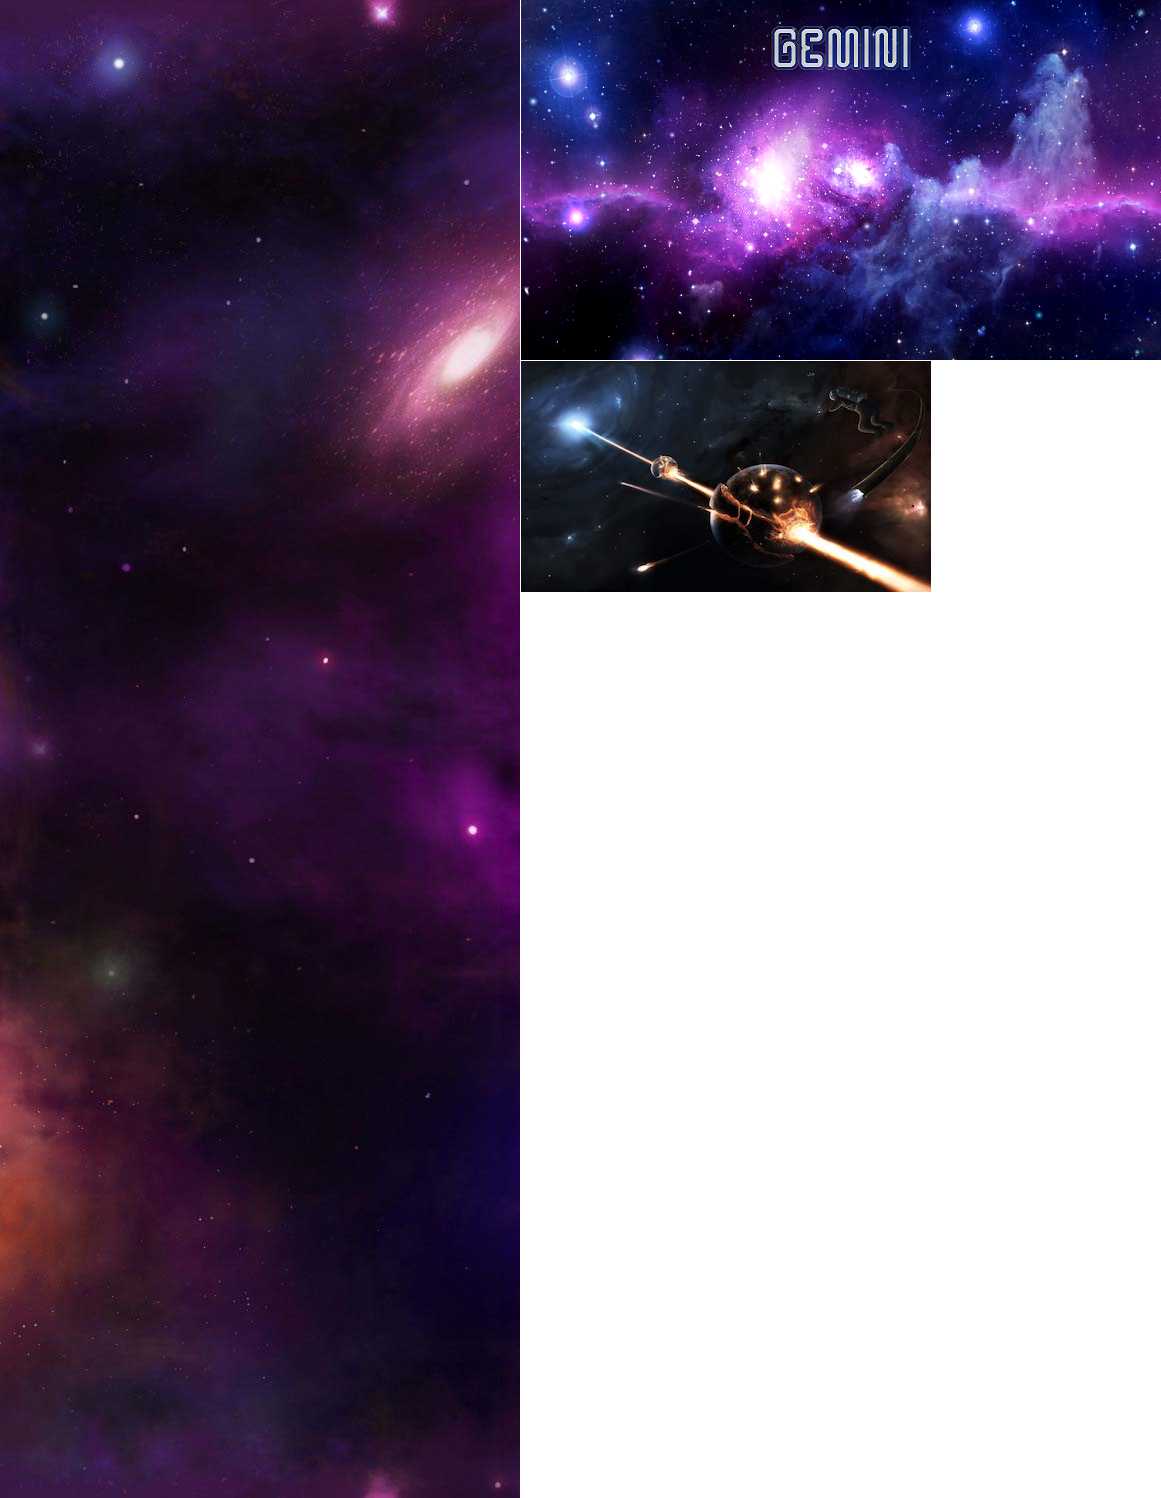
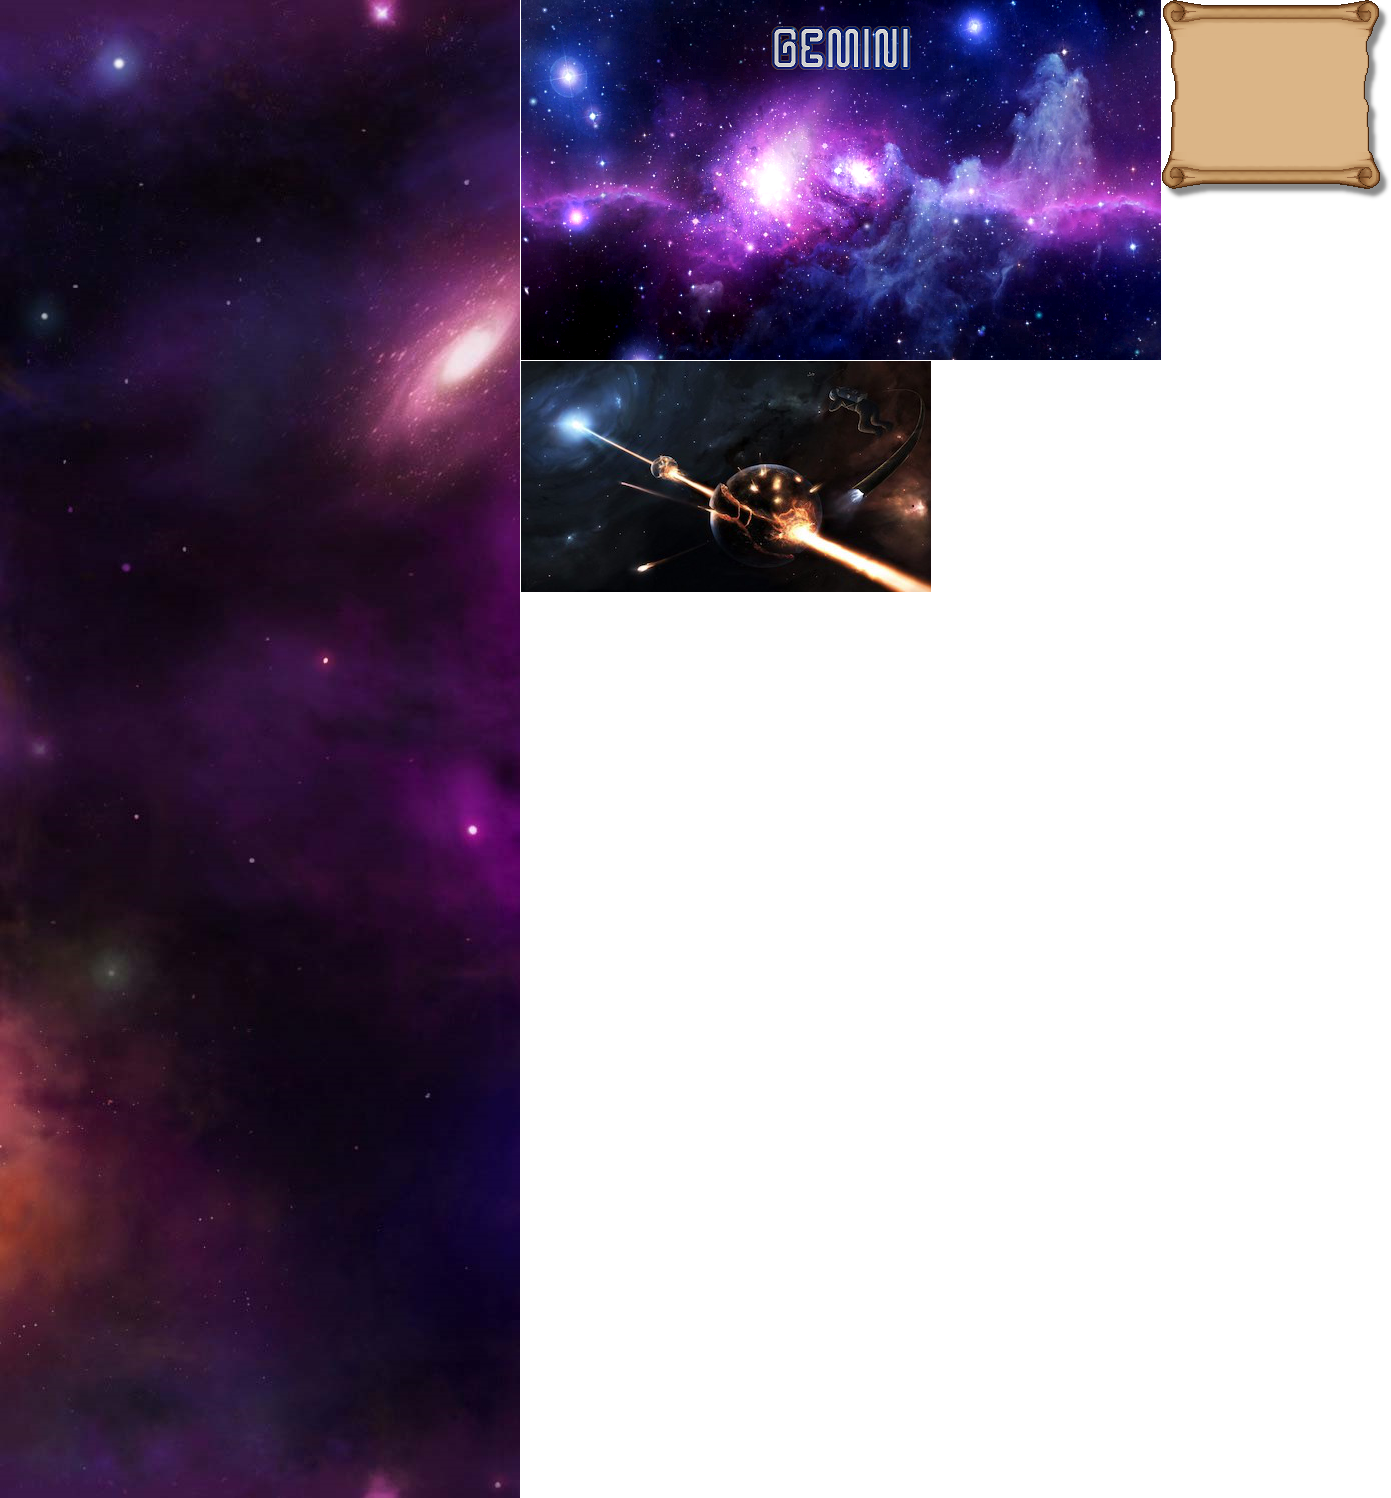
0.4.31 更改了帮助界面的背景图

diff --git a/bin/js/ui/layaUI.max.all.js b/bin/js/ui/layaUI.max.all.js
@@ -53,7 +53,7 @@ var ui;
             _super.prototype.createChildren.call(this);
             this.createView(ui.HelpViewUI.uiView);
         };
-        HelpViewUI.uiView = { "type": "Dialog", "props": { "width": 800, "height": 600 }, "child": [{ "type": "Image", "props": { "y": 125, "x": 742, "var": "returnButton", "skin": "ui/button/EndButton.png", "hitTestPrior": true, "alpha": 0.5 } }, { "type": "Image", "props": { "y": 100, "x": 50, "width": 700, "skin": "ui/background/HelpBackGround.jpg", "height": 450, "alpha": 1 }, "child": [{ "type": "Image", "props": { "y": 30, "x": 40, "width": 620, "var": "contentImage", "skin": "ui/background/ContentImage.png", "scaleY": 1, "scaleX": 1, "mouseThrough": true, "hitTestPrior": false } }] }] };
+        HelpViewUI.uiView = { "type": "Dialog", "props": { "width": 800, "height": 600 }, "child": [{ "type": "Image", "props": { "y": 125, "x": 742, "var": "returnButton", "skin": "ui/button/EndButton.png", "hitTestPrior": true, "alpha": 0.5 } }, { "type": "Image", "props": { "y": 100, "x": 50, "width": 700, "skin": "ui/background/HelpBackGround.png", "height": 450, "alpha": 1 }, "child": [{ "type": "Image", "props": { "y": 50, "x": 40, "width": 600, "var": "contentImage", "skin": "ui/background/ContentImage.png", "scaleY": 1, "scaleX": 1, "mouseThrough": true, "hitTestPrior": false } }] }] };
         return HelpViewUI;
     }(Dialog));
     ui.HelpViewUI = HelpViewUI;

diff --git a/src/ui/layaUI.max.all.ts b/src/ui/layaUI.max.all.ts
@@ -55,7 +55,7 @@ module ui {
 		public returnButton:Laya.Image;
 		public contentImage:Laya.Image;
 
-        public static  uiView:any ={"type":"Dialog","props":{"width":800,"height":600},"child":[{"type":"Image","props":{"y":125,"x":742,"var":"returnButton","skin":"ui/button/EndButton.png","hitTestPrior":true,"alpha":0.5}},{"type":"Image","props":{"y":100,"x":50,"width":700,"skin":"ui/background/HelpBackGround.jpg","height":450,"alpha":1},"child":[{"type":"Image","props":{"y":30,"x":40,"width":620,"var":"contentImage","skin":"ui/background/ContentImage.png","scaleY":1,"scaleX":1,"mouseThrough":true,"hitTestPrior":false}}]}]};
+        public static  uiView:any ={"type":"Dialog","props":{"width":800,"height":600},"child":[{"type":"Image","props":{"y":125,"x":742,"var":"returnButton","skin":"ui/button/EndButton.png","hitTestPrior":true,"alpha":0.5}},{"type":"Image","props":{"y":100,"x":50,"width":700,"skin":"ui/background/HelpBackGround.png","height":450,"alpha":1},"child":[{"type":"Image","props":{"y":50,"x":40,"width":600,"var":"contentImage","skin":"ui/background/ContentImage.png","scaleY":1,"scaleX":1,"mouseThrough":true,"hitTestPrior":false}}]}]};
         constructor(){ super()}
         createChildren():void {
         

diff --git a/src/GameMain.ts b/src/GameMain.ts
@@ -5,7 +5,7 @@ namespace Game{
     export const startBackGroundImage = "ui/background/StartBackGround.png";//开始背景图
     export const backgroundImage = "ui/background/BackGround .jpg";//游戏背景图
     export const endBackGroundImage = "ui/background/EndBackGround.jpg";//结束背景图
-    export const helpBackGroundImage="ui/background/HelpBackGround.jpg";//帮助界面图
+    export const helpBackGroundImage="ui/background/HelpBackGround.png";//帮助界面图
     export const contentImage="ui/background/ContentImage.png";//帮助界面内容图
     export const zodiacLightImage:string= "ui/else/light.png";
     export const zodiacYellowImage: string= "ui/else/yellow.png";

diff --git a/bin/js/view/HelpView.js b/bin/js/view/HelpView.js
@@ -15,12 +15,12 @@ var HelpView = /** @class */ (function (_super) {
     function HelpView() {
         var _this = _super.call(this) || this;
         _this.prevY = 0;
-        _this.contentImage.scrollRect = new Laya.Rectangle(0, 0, 620, 380);
+        _this.contentImage.scrollRect = new Laya.Rectangle(0, 0, 600, 330);
         _this.init();
         return _this;
     }
     HelpView.prototype.init = function () {
-        this.contentImage.y = 30;
+        this.contentImage.y = 50;
         this.contentImage.scrollRect.y = 0;
         //设置拖动查看事件
         this.contentImage.on(Laya.Event.MOUSE_DOWN, this, this.startScrollText);

diff --git a/bin/js/GameMain.js b/bin/js/GameMain.js
@@ -6,7 +6,7 @@ var Game;
     Game.startBackGroundImage = "ui/background/StartBackGround.png"; //开始背景图
     Game.backgroundImage = "ui/background/BackGround .jpg"; //游戏背景图
     Game.endBackGroundImage = "ui/background/EndBackGround.jpg"; //结束背景图
-    Game.helpBackGroundImage = "ui/background/HelpBackGround.jpg"; //帮助界面图
+    Game.helpBackGroundImage = "ui/background/HelpBackGround.png"; //帮助界面图
     Game.contentImage = "ui/background/ContentImage.png"; //帮助界面内容图
     Game.zodiacLightImage = "ui/else/light.png";
     Game.zodiacYellowImage = "ui/else/yellow.png";

diff --git a/src/view/HelpView.ts b/src/view/HelpView.ts
@@ -6,13 +6,13 @@ class HelpView extends ui.HelpViewUI{
     constructor()
     {
         super();
-        this.contentImage.scrollRect=new Laya.Rectangle(0,0,620,380);   
+        this.contentImage.scrollRect=new Laya.Rectangle(0,0,600,330);   
         this.init();
     }
 
     public init():void
     {
-        this.contentImage.y=30;
+        this.contentImage.y=50;
         this.contentImage.scrollRect.y=0;
         //设置拖动查看事件
         this.contentImage.on(Laya.Event.MOUSE_DOWN,this,this.startScrollText);
